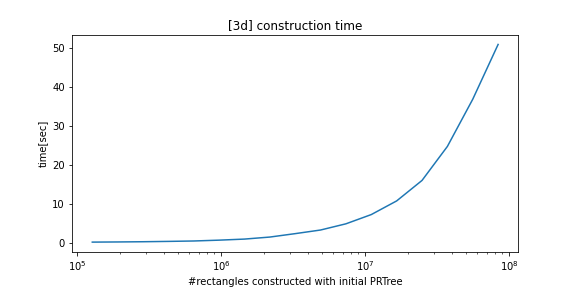
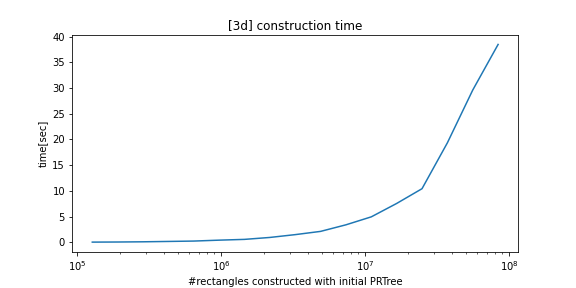
fix m1 wheel (#28)
* setup dev env

* format

* rename

* fix

* tuned for faster query

* update

* 0.5.10

* fix

* fix

* fix

* fix

* fix

* fix

* fix

* fix

* fix

* fix

* fix

* fix

* fix

* fix

* fix

* fix

* replaced std::array to stack array

* fix ci

* update

* mod

diff --git a/cpp/prtree.h b/cpp/prtree.h
@@ -43,9 +43,6 @@ using Real = float;
 
 namespace py = pybind11;
 
-template <class T, class U>
-using pair = std::pair<T, U>;
-
 template <class T>
 using vec = std::vector<T>;
 
@@ -92,37 +89,35 @@ template <int D = 2>
 class BB
 {
 private:
-  std::array<Real, 2 * D> values;
+  Real values[2 * D];
 
 public:
   BB() { clear(); }
 
-  template <typename Iter>
-  BB(const Iter &minima, const Iter &maxima)
+  BB(const Real (&minima)[D], const Real (&maxima)[D])
   {
-    std::array<Real, 2 * D> v;
-    if (unlikely(minima.size() != maxima.size()))
-    {
-      throw std::runtime_error("Invalid size");
-    }
-    const int n = minima.size();
-    if (unlikely(n != D))
-    {
-      throw std::runtime_error("Invalid size");
-    }
-    for (int i = 0; i < n; ++i)
+    Real v[2 * D];
+    for (int i = 0; i < D; ++i)
     {
       v[i] = -minima[i];
       v[i + D] = maxima[i];
     }
     validate(v);
-    values = v;
+    for (int i = 0; i < D; ++i)
+    {
+      values[i] = v[i];
+      values[i + D] = v[i + D];
+    }
   }
 
-  BB(const std::array<Real, 2 * D> v)
+  BB(const Real (&v)[2 * D])
   {
     validate(v);
-    values = v;
+    for (int i = 0; i < D; ++i)
+    {
+      values[i] = v[i];
+      values[i + D] = v[i + D];
+    }
   }
 
   Real min(const int dim) const
@@ -142,7 +137,7 @@ public:
     return values[dim + D];
   }
 
-  bool validate(const std::array<Real, 2 * D> &v) const
+  bool validate(const Real (&v)[2 * D]) const
   {
     bool flag = false;
     for (int i = 0; i < 2; ++i)
@@ -159,11 +154,17 @@ public:
     }
     return flag;
   }
-  void clear() { std::fill_n(values.begin(), 2 * D, -1e100); }
+  void clear()
+  {
+    for (int i = 0; i < 2 * D; ++i)
+    {
+      values[i] = -1e100;
+    }
+  }
 
   BB operator+(const BB &rhs) const
   {
-    std::array<Real, 2 * D> result;
+    Real result[2 * D];
     for (int i = 0; i < 2 * D; ++i)
     {
       result[i] = std::max(values[i], rhs.values[i]);
@@ -180,7 +181,7 @@ public:
     return *this;
   }
 
-  void expand(const std::array<Real, D> &delta)
+  void expand(const Real (&delta)[D])
   {
     for (int i = 0; i < D; ++i)
     {
@@ -192,7 +193,7 @@ public:
   bool operator()(
       const BB &target) const
   { // whether this and target has any intersect
-    std::array<Real, 2 * D> result;
+    Real result[2 * D];
     for (int i = 0; i < 2 * D; ++i)
     {
       result[i] = std::min(values[i], target.values[i]);
@@ -350,7 +351,7 @@ template <class T, int B = 6, int D = 2>
 class PseudoPRTreeNode
 {
 public:
-  std::array<Leaf<T, B, D>, 2 * D> leaves;
+  Leaf<T, B, D> leaves[2 * D];
   std::unique_ptr<PseudoPRTreeNode> left, right;
 
   PseudoPRTreeNode()
@@ -423,6 +424,7 @@ public:
       root = std::make_unique<PseudoPRTreeNode<T, B, D>>();
     }
     construct(root.get(), b, e, 0);
+    clean_data<T, D>(b, e);
   }
 
   template <class Archive>
@@ -496,7 +498,6 @@ public:
     if (cache_children.empty())
     {
       using U = PseudoPRTreeNode<T, B, D>;
-      vec<U *> leaf_nodes;
       cache_children.reserve(hint);
       auto node = root.get();
       queue<U *> que;
@@ -506,7 +507,6 @@ public:
       {
         node = que.front();
         que.pop();
-        leaf_nodes.emplace_back(node);
         node->address_of_leaves(cache_children);
         if (node->left)
           que.emplace(node->left.get());
@@ -517,8 +517,7 @@ public:
     return cache_children;
   }
 
-  std::pair<DataType<T, D> *, DataType<T, D> *> as_X(void *placement,
-                                                     const int hint)
+  std::pair<DataType<T, D> *, DataType<T, D> *> as_X(void *placement, const int hint)
   {
     DataType<T, D> *b, *e;
     auto children = get_all_leaves(hint);
@@ -649,8 +648,8 @@ public:
 
     for (T i = 0; i < length; i++)
     {
-      std::array<Real, D> minima;
-      std::array<Real, D> maxima;
+      Real minima[D];
+      Real maxima[D];
       for (int j = 0; j < D; ++j)
       {
         minima[j] = rx(i, j);
@@ -663,8 +662,8 @@ public:
 
     for (size_t i = 0; i < length; i++)
     {
-      std::array<Real, D> minima;
-      std::array<Real, D> maxima;
+      Real minima[D];
+      Real maxima[D];
       for (int j = 0; j < D; ++j)
       {
         minima[j] = rx(i, j);
@@ -720,8 +719,8 @@ public:
       throw std::runtime_error("Given index is already included.");
     }
     {
-      std::array<Real, D> minima;
-      std::array<Real, D> maxima;
+      Real minima[D];
+      Real maxima[D];
       for (int i = 0; i < D; ++i)
       {
         minima[i] = *x.data(i);
@@ -732,7 +731,7 @@ public:
     idx2bb.emplace(idx, bb);
     set_obj(idx, objdumps);
 
-    std::array<Real, D> delta;
+    Real delta[D];
     for (int i = 0; i < D; ++i)
     {
       delta[i] = bb.max(i) - bb.min(i) + 0.00000001;
@@ -751,7 +750,7 @@ public:
 
     while (likely(cands.size() == 0))
     {
-      std::array<Real, D> d;
+      Real d[D];
       for (int i = 0; i < D; ++i)
       {
         d[i] = delta[i] * c;
@@ -889,7 +888,6 @@ public:
 
     auto first_tree = PseudoPRTree<T, B, D>(b, e);
     auto first_leaves = first_tree.get_all_leaves(e - b);
-    clean_data<T, D>(b, e);
     for (auto &leaf : first_leaves)
     {
       auto pp = std::make_unique<PRTreeNode<T, B, D>>(leaf);
@@ -900,7 +898,6 @@ public:
     {
       auto tree = PseudoPRTree<T, B, D>(bb, ee);
       auto leaves = tree.get_all_leaves(ee - bb);
-      clean_data<T, D>(bb, ee);
       auto leaves_size = leaves.size();
 
       vec<std::unique_ptr<PRTreeNode<T, B, D>>> tmp_nodes;
@@ -988,8 +985,8 @@ public:
     if (ndim == 1)
     {
       {
-        std::array<Real, D> minima;
-        std::array<Real, D> maxima;
+        Real minima[D];
+        Real maxima[D];
         for (int i = 0; i < D; ++i)
         {
           minima[i] = *x.data(i);
@@ -1012,8 +1009,8 @@ public:
       for (long int i = 0; i < shape_x[0]; i++)
       {
         {
-          std::array<Real, D> minima;
-          std::array<Real, D> maxima;
+          Real minima[D];
+          Real maxima[D];
           for (int j = 0; j < D; ++j)
           {
             minima[j] = *x.data(i, j);
@@ -1047,8 +1044,8 @@ public:
     {
       throw std::runtime_error("invalid shape");
     }
-    std::array<Real, D> minima;
-    std::array<Real, D> maxima;
+    Real minima[D];
+    Real maxima[D];
     if (x.size() == D)
     {
       is_point = true;

diff --git a/setup.py b/setup.py
@@ -89,7 +89,7 @@ class CMakeBuild(build_ext):
 
 setup(
     name="python_prtree",
-    version="0.5.11",
+    version="0.5.12",
     license="MIT",
     description="Python implementation of Priority R-Tree",
     author="atksh",
